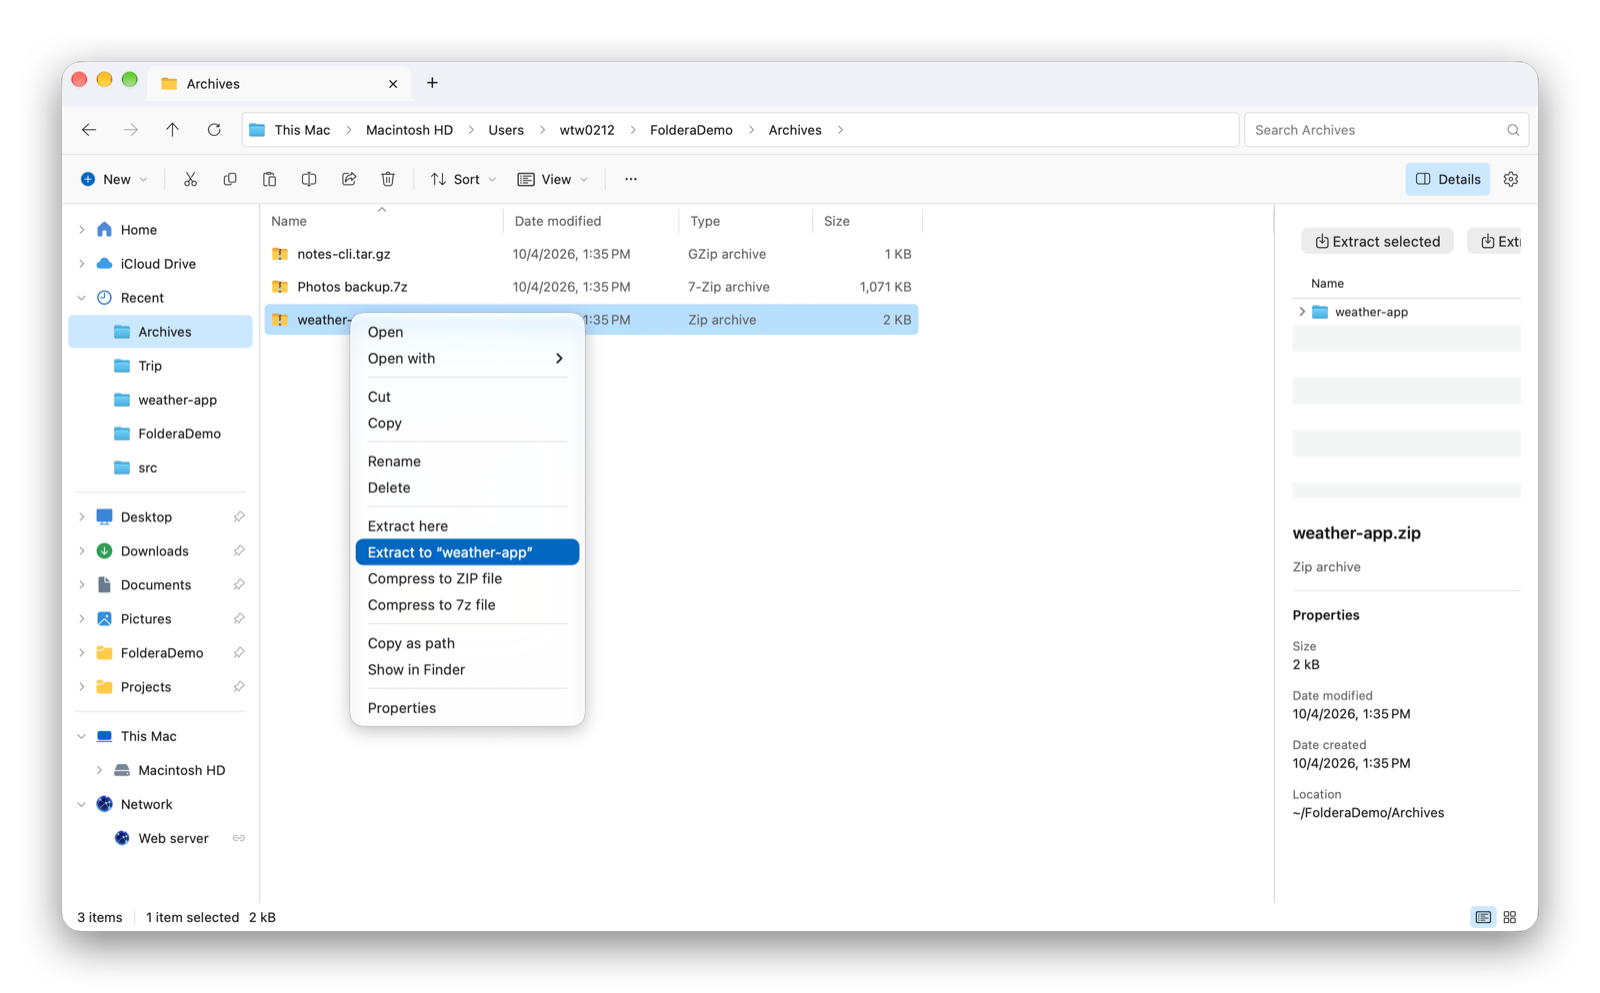
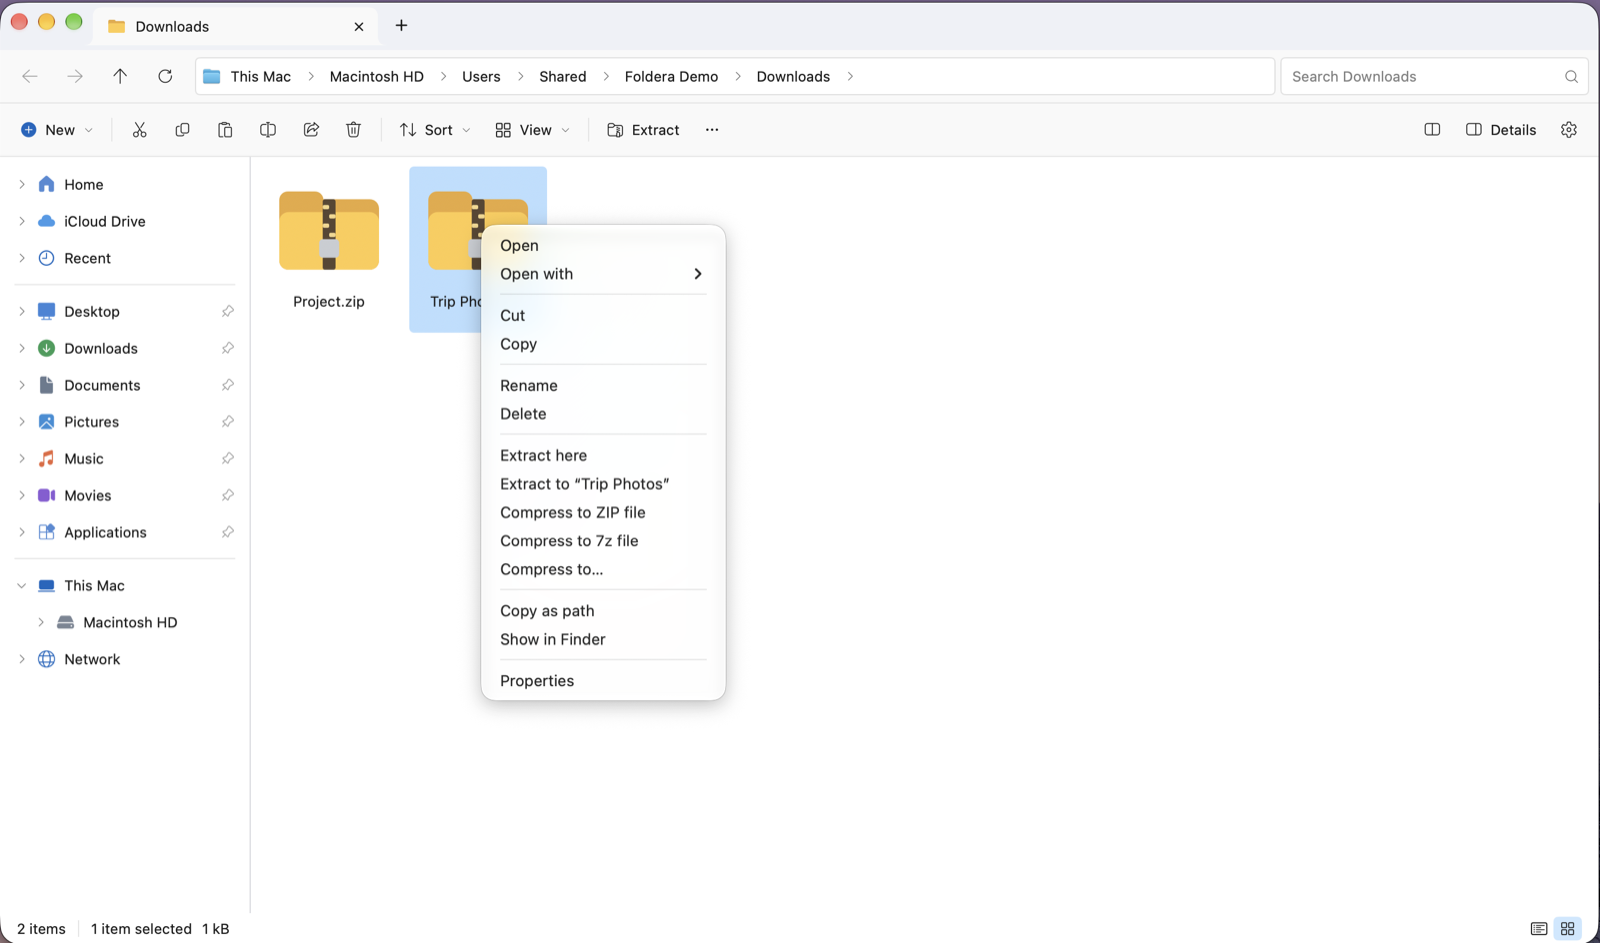
Update the README's archive section and screenshots

diff --git a/README.md b/README.md
@@ -150,9 +150,17 @@ The address bar takes more than paths:
 
 ## Archives
 
-Right-click archives to **Extract here**, **Extract to “name”** or **Extract each to separate folders**; right-click anything to **Compress to ZIP file** or **Compress to 7z file**, or **Compress to…** to pick the name, folder, format, compression level and an optional password (AES-256 or ZipCrypto for zip; 7z can also encrypt file names). Extraction never overwrites existing items, asks for a password when an archive is encrypted, and reads zip, 7z, rar (incl. RAR5), split archives, tar.gz/bz2/xz, iso and cab.
+Right-click archives to **Extract here**, **Extract to “name”** or **Extract each to separate folders**, or use **Extract** in the command bar to pick a folder, with options to extract into a new folder and to open the result when done. Extraction never overwrites existing items, shows progress with Cancel, asks for a password when an archive is encrypted, and reads zip, 7z, rar (incl. RAR5), split archives, tar.gz/bz2/xz, iso and cab.
 
-![Right-clicking a zip shows Extract here, Extract to and Compress commands; the Details pane lists the archive's contents](docs/images/archives.png)
+![Right-clicking an archive shows Extract here, Extract to and the Compress commands](docs/images/archives.png)
+
+**Browse archives without extracting them.** Double-click a zip, 7z, rar, iso, cab or tar to open it in its own window, titled “(archive)”. Folders open like any other; files open from a temporary copy; pictures, PDFs and videos get thumbnails, Details previews and Quick Look. Copy, drag out (to Finder or another Foldera window) or **Extract** takes items out; nothing inside can be changed. You can also type a path through an archive into the address bar, e.g. `~/Downloads/Trip Photos.7z/Trip Photos`. Archives whose file names are encrypted ask for the password before opening. (tar.gz and similar two-layer archives are extracted instead.)
+
+![An archive window browsing the photos inside Trip Photos.7z with thumbnails and the Details pane previewing one](docs/images/archive-browsing.png)
+
+Right-click anything to **Compress to ZIP file** or **Compress to 7z file**, or **Compress to…** to choose the name, folder, format, compression level and an optional password: AES-256 or ZipCrypto for zip, and 7z can also encrypt file names. Passwords are passed to 7-Zip privately and never saved.
+
+<img alt="The Compress to sheet with name, folder, ZIP or 7z, compression level, password and Encrypt file names" src="docs/images/compress-to.png" width="490">
 
 Foldera bundles the unmodified 7-Zip console program (`7zz`, LGPL; see `ThirdParty/7-Zip`) and runs it as a separate process. tar archives use the system `tar`; single-item ZIPs use `ditto`, like Finder.
 
